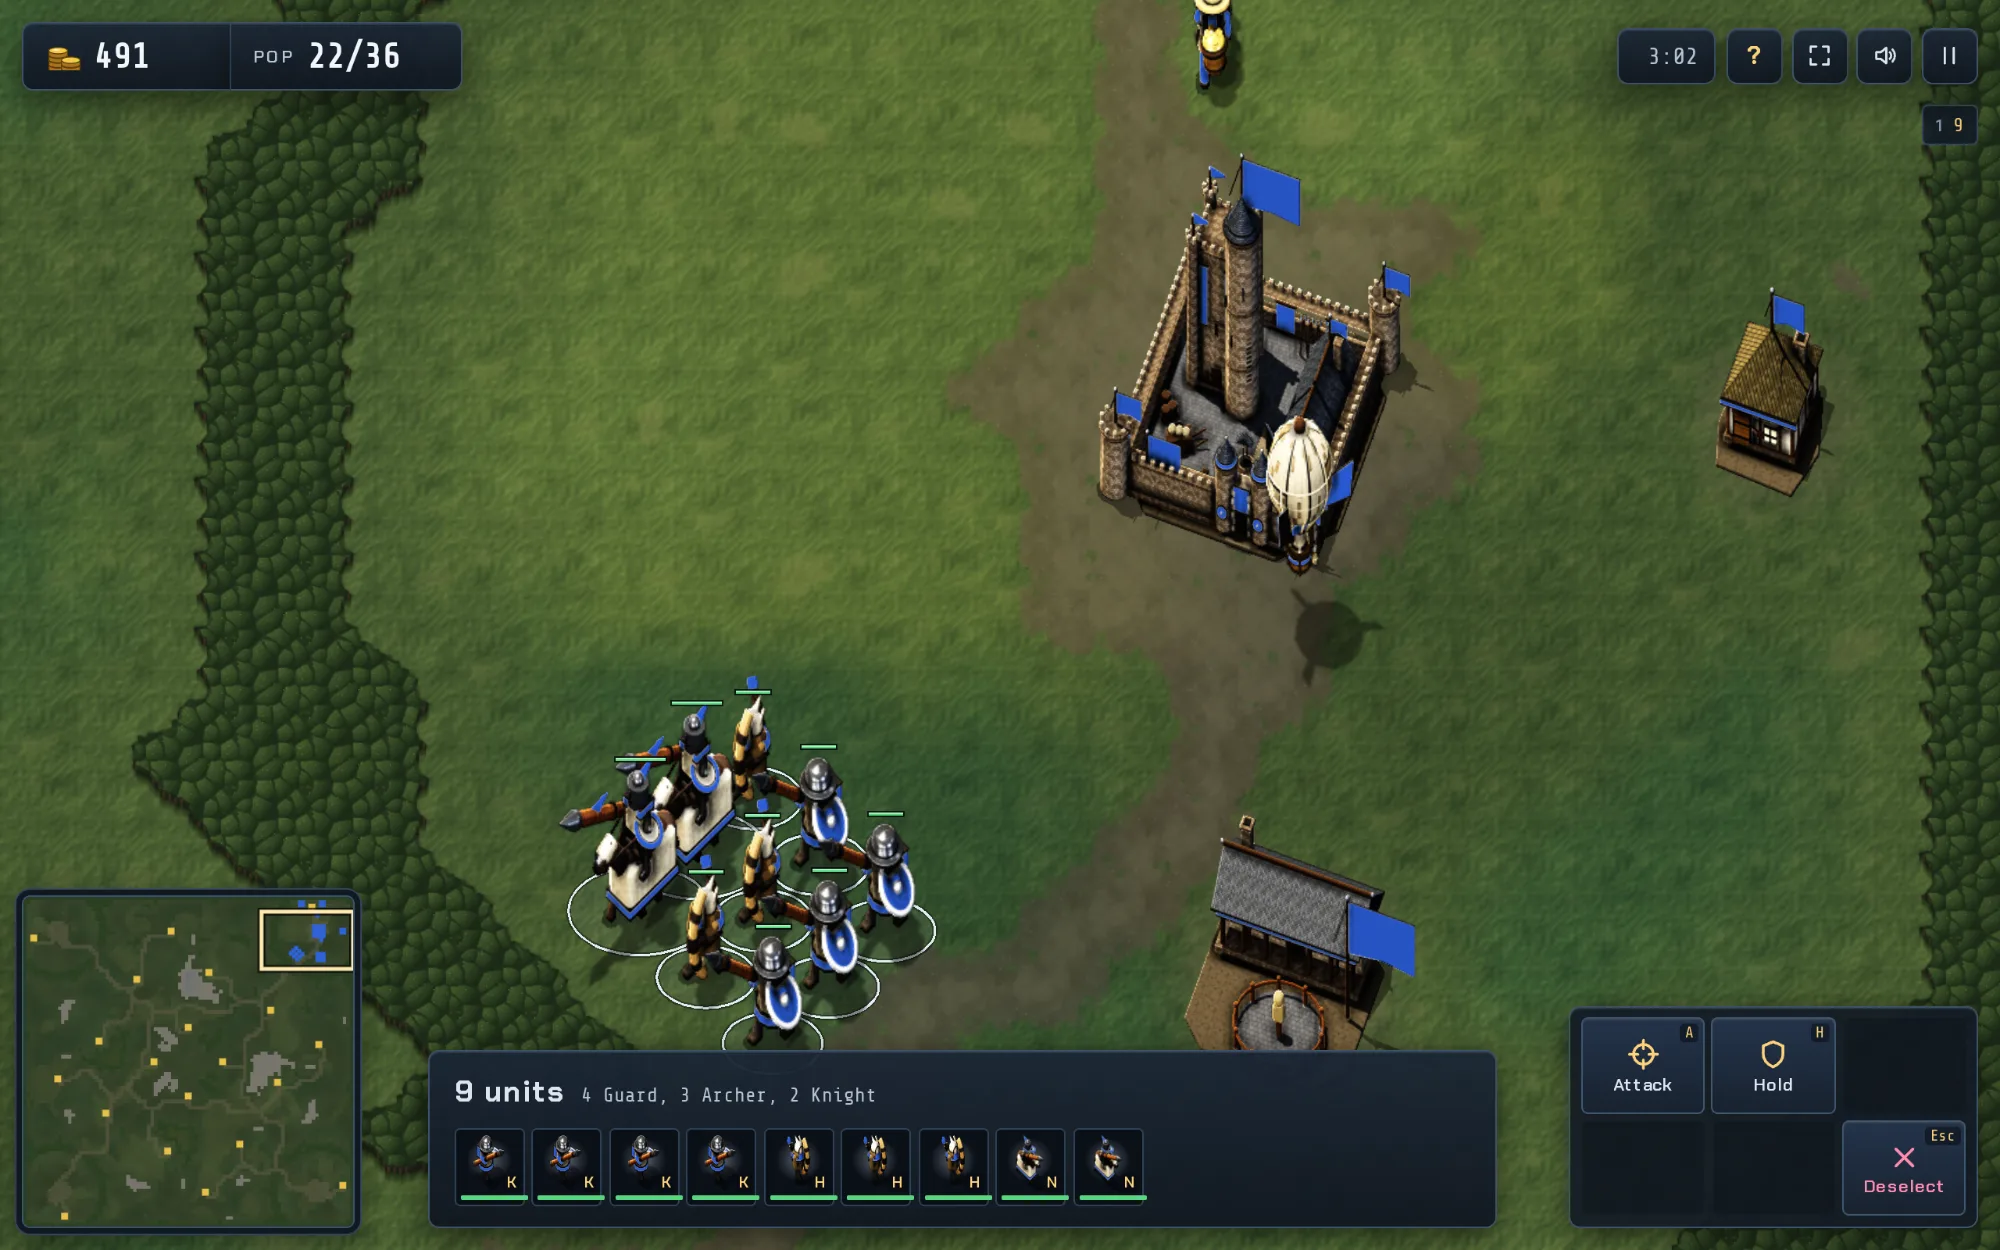
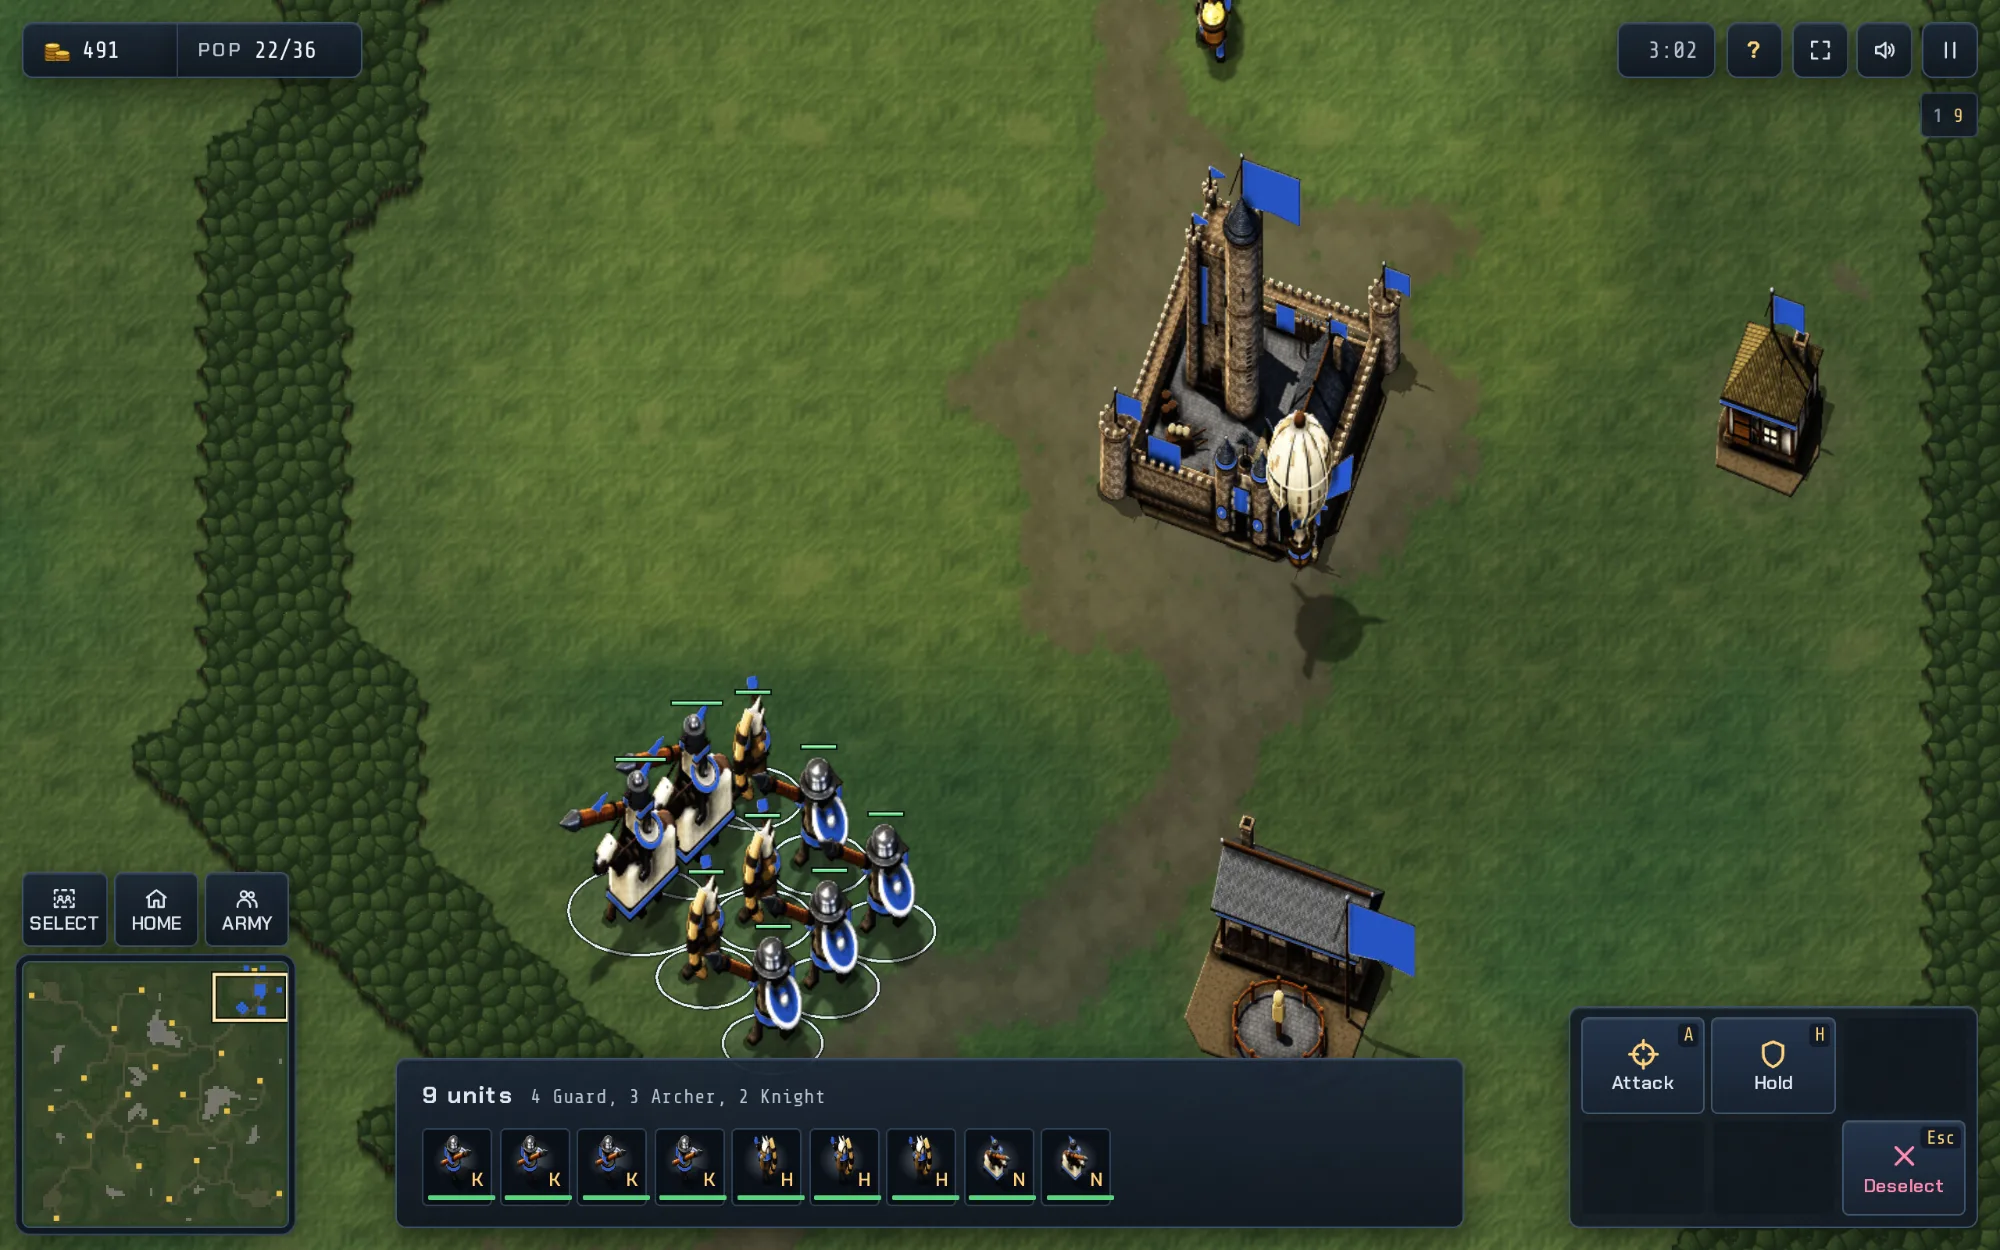
Show SELECT, HOME and ARMY on a desktop too: a mouse's click on SELECT arms one box, a plain click lets it go; OPTIONS' MOUSE chips on one line (#400)

diff --git a/src/client/input.js b/src/client/input.js
@@ -31,7 +31,7 @@ function selectOrDouble(hit, add, at = performance.now()) {
   lastPick = { id: hit.id, t: at, dbl: false };
   select([hit], add);
 }
-import { cv, mm, cam, view, clampCam, centerOn, toWorld, zoomAt, flashTarget, ALLY, FOE, unitTop, unitRadius, bldgArtTop } from './gl/render.js';
+import { cv, mm, cam, view, clampCam, centerOn, toWorld, zoomAt, flashTarget, ALLY, FOE, unitTop, unitRadius, bldgArtTop, deskHud, resize } from './gl/render.js';
 /** Where a unit is drawn, as a circle round its body: centered half its drawn height above its feet (a flyer's art,
  *  shadow and all, rises from the ground point it occupies), as wide as its art or half that height, whichever is more. */
 const body = (u) => { const h = unitTop(u.type) / 2; return { x: u.x, y: u.y - h, r: Math.max(unitRadius(u), h) }; };
@@ -317,7 +317,7 @@ function bindCanvas() {
     cv.setPointerCapture(ev.pointerId); const p = canvasPos(ev); pointers.set(ev.pointerId, p); drag.ptype = ev.pointerType;
     if (ev.pointerType === 'touch') { if (pointers.size === 2) { cancelHold(); if (drag.held) endHoldBox(); if (ui.place) ui.place.tx = ui.place.ty = -99; drag.down = false; drag.box = false; drag.pan = false; const [a, b] = [...pointers.values()]; pan = { x: (a.x + b.x) / 2, y: (a.y + b.y) / 2, d: Math.hypot(a.x - b.x, a.y - b.y) }; return; } if (pointers.size > 2) return; }
     if (ev.button === 1 && ev.pointerType === 'mouse') { mid = p; edge.x = edge.y = 0; return; } // (a drag of the map: no selection, no order)
-    if (ev.button === 2) { const w = toWorld(p.x, p.y); if (ui.place || ui.mode) { clearMode(); return; } commandAt(w.x, w.y); return; }
+    if (ev.button === 2) { const w = toWorld(p.x, p.y); if (ui.box) { ui.box = false; boxButton(); return; } if (ui.place || ui.mode) { clearMode(); return; } commandAt(w.x, w.y); return; }
     if (ev.button !== 0) return;
     // A touch that stops a gliding camera does nothing else.
     drag.quiet = ev.pointerType === 'touch' && fling.caught;
@@ -385,6 +385,7 @@ function bindCanvas() {
     const w = toWorld(p.x, p.y);
     if (ui.place && ev.pointerType === 'touch' && !ghostAt(ev)) return; // (lifted over the HUD: still placing, nothing built)
     if (ui.place && ev.pointerType !== 'touch') Object.assign(ui.place, placeTile(ui.place.type, w.x, w.y));
+    if (ev.pointerType !== 'touch' && ui.box) { ui.box = false; boxButton(); return; } // (SELECT armed: a plain click lets it go and orders nothing)
     if (ev.pointerType === 'touch') touchTap(w.x, w.y, ev.timeStamp); else leftAction(w.x, w.y, ev.shiftKey, ev.timeStamp);
   };
   cv.addEventListener('pointerup', endPointer);
@@ -435,20 +436,26 @@ function bindMinimap() {
 }
 
 /**
- * SELECT (touch screens): hold it and drag a box with the other hand, or tap it to arm one box drag. Shown on any
- * device with a touch screen (also touch laptops), and as soon as a finger touches the map.
+ * SELECT, with HOME and ARMY beside it. Touch: hold it and drag a box with the other hand, or tap it to arm one box
+ * drag. A mouse: a click arms one box drag, a click on the map (or Esc, or SELECT again) lets it go. The row shows on any
+ * device with a touch screen (also touch laptops), as soon as a finger touches the map, and with the desktop HUD.
  */
 function bindSelectButton() {
   const bx = $('btnBox');
   if (bx) {
-    const show = () => { bx.hidden = false; $('btnHome').hidden = false; $('btnArmy').hidden = false; }; // (Home and Army go with SELECT: touch screens; a keyboard has Home and Q)
-    if (matchMedia('(any-pointer: coarse)').matches) show();
-    cv.addEventListener('pointerdown', ev => { if (ev.pointerType === 'touch') show(); });
+    const row = [bx, $('btnHome'), $('btnArmy')];
+    let touched = matchMedia('(any-pointer: coarse)').matches;
+    const show = () => { for (const b of row) b.hidden = !(touched || deskHud.matches); };
+    show();
+    cv.addEventListener('pointerdown', ev => { if (ev.pointerType === 'touch') { touched = true; show(); } });
+    deskHud.addEventListener('change', () => { show(); resize(); }); // (a window grown or shrunk past the desktop HUD's size: the map's room past the foot goes by the row)
+    if (deskHud.matches) bx.title = 'Click, then drag a box on the map';
+    for (const b of row) b.addEventListener('mousedown', ev => ev.preventDefault()); // (a click leaves the focus where it was: Space and Enter stay the game's)
     let downAt = 0, viaPointer = false;
-    bx.addEventListener('pointerdown', ev => { ev.stopPropagation(); ev.preventDefault(); viaPointer = true; downAt = ev.timeStamp; boxDone = false; ui.box = ui.box ? false : 'held'; boxButton(); });
-    bx.addEventListener('pointerup', ev => { if (ui.box === 'held') ui.box = !boxDone && ev.timeStamp - downAt <= 350 ? 'once' : false; boxButton(); });
+    bx.addEventListener('pointerdown', ev => { ev.stopPropagation(); if (ev.pointerType === 'mouse') return; ev.preventDefault(); viaPointer = true; downAt = ev.timeStamp; boxDone = false; ui.box = ui.box ? false : 'held'; boxButton(); });
+    bx.addEventListener('pointerup', ev => { if (ev.pointerType === 'mouse') return; if (ui.box === 'held') ui.box = !boxDone && ev.timeStamp - downAt <= 350 ? 'once' : false; boxButton(); });
     bx.addEventListener('pointercancel', () => { ui.box = false; boxButton(); });
-    bx.addEventListener('click', () => { if (viaPointer) { viaPointer = false; return; } ui.box = ui.box ? false : 'once'; boxButton(); }); // keyboard
+    bx.addEventListener('click', () => { if (viaPointer) { viaPointer = false; return; } ui.box = ui.box ? false : 'once'; boxButton(); }); // a mouse, a keyboard
     bx.addEventListener('contextmenu', ev => ev.preventDefault());
   }
 }

diff --git a/src/style.css b/src/style.css
@@ -590,7 +590,7 @@ dialog.trailer .note{margin:6px 0 0;font:12px var(--mono);color:var(--fg);text-a
      --t-title  17  a name (display, bold): the selection's, a research's, a tooltip's, the help sheet's
      --i-s 14, --i-m 18, --i-l 24, --i-xl 30   icons: beside words; the top bar's and beside figures; an order; a
                     unit's or a building's symbol (a price's own coin and figure stay 10)
-     --mm      190  the minimap's side; what stands over it (the hint, the toasts, a touch laptop's three) follows it
+     --mm      190  the minimap's side; what stands over it (SELECT, HOME and ARMY, the hint, the toasts) follows it
      the menu (px, its own pages: no --u): 17 the line under the name (#menuTag, above), --t-menu-s 14 the small
                     buttons and the footer's links (the big buttons' and the trailer's pill's 14), --t-menu-min 12 the
                     least (the build stamp, a token's small words, a sheet's, the pause card's, the trailer's credit) */
@@ -662,13 +662,17 @@ dialog.trailer .note{margin:6px 0 0;font:12px var(--mono);color:var(--fg);text-a
   /* toasts and hints over the minimap, clear of it, as far over it whatever its size */
   .toast{font-size:var(--t-body);padding:calc(var(--u)*6) calc(var(--u)*12);border-radius:calc(var(--u)*5)}
   #hint{font-size:var(--t-body)} #hint.placing,#hint.boxing{font-size:var(--t-num)} /* (12.6 and 15.3 px at the least: never smaller than under 1100 px) */
-  #msg,#hint{translate:none} #hint{left:var(--m);bottom:calc(var(--m) + var(--mm) + var(--u)*14)}
-  :is(#stage:has(#btnBox[hidden]),#stage) #msg{left:var(--m);bottom:calc(var(--m) + var(--mm) + var(--u)*48)} /* (as specific as the mouse's own rule, which names #btnBox) */
-  /* a touch laptop (SELECT, HOME and ARMY shown): the three in a row above the minimap and as wide as it, the hint and
-     the toasts above them */
-  :is(#btnBox,#btnHome,#btnArmy){translate:none;--bx:var(--m);--bw:calc((var(--mm) - 8px) / 3);bottom:calc(var(--m) + var(--mm) + var(--u)*10)}
-  #stage:has(#btnBox:not([hidden])) #hint{bottom:calc(var(--m) + var(--mm) + var(--u)*10 + 56px)}
-  #stage:has(#btnBox:not([hidden])) #msg{bottom:calc(var(--m) + var(--mm) + var(--u)*10 + 90px)}
+  #msg,#hint{translate:none} #hint{left:var(--m)}
+  /* SELECT, HOME and ARMY in a row above the minimap and as wide as it, the hint and the toasts above them (48 px tall
+     at the least: a touch laptop's fingers) */
+  #stage{--rh:max(48px,calc(var(--u)*48))}
+  :is(#btnBox,#btnHome,#btnArmy){translate:none;--bx:var(--m);--bw:calc((var(--mm) - 8px) / 3);height:var(--rh);bottom:calc(var(--m) + var(--mm) + var(--u)*10);padding:3px 0 2px;
+    background:var(--plate);border-color:var(--edge);border-radius:calc(var(--u)*6);box-shadow:var(--lift),var(--drop)}
+  :is(#btnBox,#btnHome,#btnArmy):hover{border-color:var(--ally)}
+  :is(#btnBox,#btnHome,#btnArmy) .ico{width:var(--i-m);height:var(--i-m)} :is(#btnBox,#btnHome,#btnArmy) span{font-size:var(--t-key);letter-spacing:0}
+  #stage #hint{bottom:calc(var(--m) + var(--mm) + var(--u)*10 + var(--rh) + 8px)}
+  :is(#stage:has(#btnBox[hidden]),#stage) #msg{left:var(--m);bottom:calc(var(--m) + var(--mm) + var(--u)*10 + var(--rh) + 42px)} /* (as specific as the mouse's own rule, which names #btnBox) */
+  #options .card.small{max-width:480px} #options .chips .ib{white-space:nowrap} /* (a chip's words on one line) */
   .tb{font-size:var(--t-key);padding:calc(var(--u)*6) calc(var(--u)*9)} .tb b{font-size:var(--t-key)}
   /* the tooltip (its fixed px above are every other screen's): its name a title, its price a figure, its words, places
      and chips the body's, its small chips and tags the key's; the icons with their words */

diff --git a/index.html b/index.html
@@ -79,7 +79,7 @@
       <ul class="lines desk">
         <li><b>Select</b> with a click or a drag; then <span class="lr"><b>click</b> or <b>right-click</b></span><span class="ro"><b>right-click</b></span> to move, attack or mine; <kbd>Esc</kbd> lets go. With a building, right-click sets a rally point.</li>
         <li>Each button shows its key: <kbd>A</kbd> attack-move, <kbd>S</kbd> stop, <kbd>H</kbd> hold in Classic; in WASD, a key by its place on the card.</li>
-        <li><kbd>Q</kbd> your whole army, <kbd>Space</kbd> jump to the attack, <kbd>Ctrl</kbd>+<kbd>1</kbd>–<kbd>9</kbd> save a group, <kbd>P</kbd> pause.</li>
+        <li><b>ARMY</b> (<kbd>Q</kbd>) your whole army, <b>HOME</b> your base, <b>SELECT</b> arms a box; <kbd>Space</kbd> jump to the attack, <kbd>Ctrl</kbd>+<kbd>1</kbd>–<kbd>9</kbd> save a group, <kbd>P</kbd> pause.</li>
         <li>The arrow keys, the screen's edge or the middle button move the map; <kbd>Ctrl</kbd>+wheel zooms.</li>
       </ul>
       <ul class="lines touch">
@@ -94,7 +94,7 @@
 
     <button class="tb" id="btnBox" hidden title="Tap (or hold), then drag on the map to select a group; or hold a finger on the map, then drag" aria-label="Select a group" aria-pressed="false"><svg class="ico" viewBox="0 0 24 24" aria-hidden="true"><path d="M3 7V4h3M10 4h4M18 4h3v3M21 11v2M21 17v3h-3M14 20h-4M6 20H3v-3M3 13v-2" /><path class="fig" d="M8.5 9.6a1.6 1.6 0 1 0 .01 0M5.8 16v-.4a2.7 2.7 0 0 1 5.4 0v.4M15.5 9.6a1.6 1.6 0 1 0 .01 0M12.8 16v-.4a2.7 2.7 0 0 1 5.4 0v.4" /></svg><span>SELECT</span></button>
     <button class="tb" id="btnHome" hidden title="Back to base (Home)" aria-label="Home: back to base"></button>
-    <button class="tb" id="btnArmy" hidden title="Select your whole army (Q); tap again to look at it" aria-label="Select your whole army"></button>
+    <button class="tb" id="btnArmy" hidden title="Select your whole army (Q); again: look at it" aria-label="Select your whole army"></button>
   </div>
   <footer id="hud">
     <canvas id="minimap" width="168" height="168"></canvas>

diff --git a/src/client/gl/render.js b/src/client/gl/render.js
@@ -296,7 +296,7 @@ export function resize() {
   view.w = Math.max(200, r.width | 0); view.h = Math.max(160, r.height | 0); view.dpr = app.renderer.resolution;
   const hud = document.getElementById('hud'), top = document.getElementById('top'); hudFloats = !hud || getComputedStyle(hud).position === 'fixed';
   bleed = !!top && getComputedStyle(top).position === 'fixed'; topRoom = bleed ? Math.max(0, top.getBoundingClientRect().bottom - r.top) + 8 : 0;
-  const m = mm.getBoundingClientRect(), sel = document.getElementById('btnBox'), b = sel && !sel.hidden ? sel.getBoundingClientRect() : null; // (SELECT, HOME and ARMY: a touch screen's row over the minimap)
+  const m = mm.getBoundingClientRect(), sel = document.getElementById('btnBox'), b = sel && !sel.hidden ? sel.getBoundingClientRect() : null; // (SELECT, HOME and ARMY: the row over the minimap)
   footRoom = m.height ? Math.max(0, r.bottom - Math.min(m.top, b?.height ? b.top : Infinity, deskHud.matches ? cardTop() : Infinity)) + 4 : FOOT_ROOM;
   showApron();
   app.renderer.resize(view.w, view.h); occTex.resize(view.w, view.h, app.renderer.resolution);
@@ -320,7 +320,7 @@ const overscroll = () => hudFloats ? (coarse.matches ? 120 : 170) / cam.zoom : 0
  *  at the foot and the top, and their corners come out with the foot's and the top's room. Phones keep their box. */
 const FOOT_ROOM = 170; // (before the minimap is laid out)
 /** The desktop HUD's window (style.css's last block; hud.js asks the same): its command card can stand over its minimap. */
-const deskHud = matchMedia('(min-width: 1100px) and (min-height: 560px) and (pointer: fine)');
+export const deskHud = matchMedia('(min-width: 1100px) and (min-height: 560px) and (pointer: fine)');
 /** The top of the command card when it has three rows (screen px), whatever it shows now: 228 units and its border,
  *  where the desktop HUD's minimap is 190. The camera's room past the foot reaches it, so the map's last rows come out
  *  from under a full card too. */

diff --git a/tools/docs/copy/how-to-play.html b/tools/docs/copy/how-to-play.html
@@ -51,7 +51,7 @@ description: Mouse, keyboard and touch controls, mining gold, building, populati
 
 <h2 id="desktop">Controls on a desktop</h2>
 {{clip desktop-loop | title=Ebbfall on a computer: the mouse and keyboard controls | label=Ebbfall on a computer: drag a box to select, right-click to move (a left click does too), double-click for all of one type, A then a click to attack-move, B to build, Ctrl+1 saves a control group and 1 recalls it, the arrow keys move the map | caption=The desktop controls in 16 seconds, in the Classic scheme: a box, a right-click (a left click orders too), a double-click, A, B, a control group, the arrow keys. Clicks are drawn as rings, white for the left button and teal for the right; keys as keycaps.}}
-{{figure shot-desktop-hud | res=Gold, and population (the Expedition: GRID) | bar=Game clock, the ? help, FULL SCREEN, SOUND, PAUSE | minimap=Minimap: click to jump, drag to scroll | info=Selection: portrait, name, health, the group's types | cmd=Command card: each button shows its key | groups=Control groups and the ATTACK alert}}
+{{figure shot-desktop-hud | res=Gold, and population (the Expedition: GRID) | bar=Game clock, the ? help, FULL SCREEN, SOUND, PAUSE | minimap=Minimap: click to jump, drag to scroll | army=SELECT: click it, then drag a box; HOME looks at your base; ARMY (Q) selects your whole army | info=Selection: portrait, name, health, the group's types | cmd=Command card: each button shows its key | groups=Control groups and the ATTACK alert}}
 <h3>Mouse</h3>
 <table class="touch desk">
 <thead><tr><th scope="col">Do</th><th scope="col">How</th></tr></thead>

diff --git a/ARCHITECTURE.md b/ARCHITECTURE.md
@@ -567,7 +567,8 @@ src/client/           everything that touches the browser
                       selection (a mouse's, what is ours); a mouse's left click with units of ours selected orders as a right click does
                       (`orderTarget`: the ground, a mine, an enemy, with workers a site or a damaged building; workers given
                       a job so are let go, as on touch) unless MOUSE is RIGHT CLICK ONLY, where it selects and the ground
-                      keeps the selection; Esc and Deselect let go; SELECT: tap to toggle, or hold
+                      keeps the selection; Esc and Deselect let go; SELECT (with HOME and ARMY on touch and
+                      with the desktop HUD; a mouse's click arms one box, a plain click lets it go): tap to toggle, or hold
   audio.js            Web Audio synthesized sfx; the context opens only in a gesture WebKit counts (a touch's end, a click,
                       a key) and nothing plays until it runs; `holdSound`: the pause card suspends it; a hidden tab
                       suspends it too; `gameSound`: the wind bed plays in a game only (main.js `begin`, the end card,
